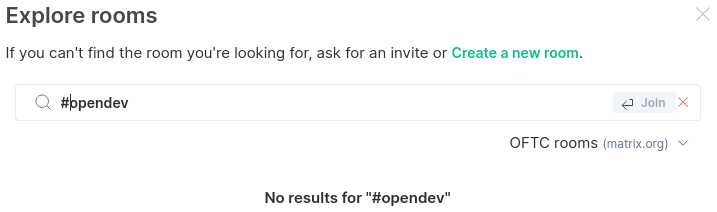
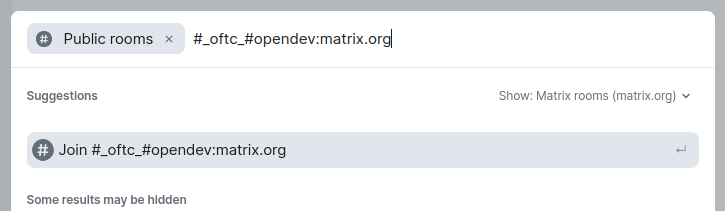
Update Matrix IRC docs
The process for joining bridged channels has changed in newer
versions of element.

diff --git a/doc/source/howtos/matrix-irc.rst b/doc/source/howtos/matrix-irc.rst
@@ -9,24 +9,25 @@ below to join an IRC channel.  The example below is for the
 ``#opendev`` channel on OFTC, but the process is similar for other
 channels or networks.
 
-Click the plus icon next to `Rooms` on the left of the screen, then
-click `Explore public rooms` in the dropdown that appears.
+Click the plus icon next to the `Home` space on the left of the
+screen, then click `Join public room` in the dropdown that appears.
 
 .. image:: /images/matrix/account-rooms-dropdown.png
    :align: center
 
-A popup dialog will appear; below the search bar in the dialog, click
-the dropdown selector labeled `Matrix rooms (matrix.org)` and change
-it to `OFTC rooms (matrix.org)`.  Then enter ``#opendev`` into the search
-box.
+A popup dialog will appear where you can enter the name of the room to
+join.  IRC channels are bridged to matrix with a special room name.
+OFTC channels are prefixed with ``#_oftc_`` and suffixed with
+``:matrix.org``.  To join the ``#opendev`` IRC channel, enter
+``#_oftc_#opendev:matrix.org`` into the text field.
 
 .. image:: /images/matrix/account-rooms-opendev.png
    :align: center
 
-It will display `No results for "#opendev"` which is an unfortunate
-consequence of one of the anti-spam measures that is necessary on IRC.
-Disregard that and hit `enter` or click `Join`, and you will join the
-room.
+There will be no search results; an unfortunate consequence of one of
+the anti-spam measures necessary on IRC.  Disregard that and hit
+`enter` or click `Join #oftc_#opendev:matrix.org`, and you will join
+the room.
 
 If this is your first time joining an OFTC channel, you will also
 receive an invitation to join the `OFTC IRC Bridge status` room.
